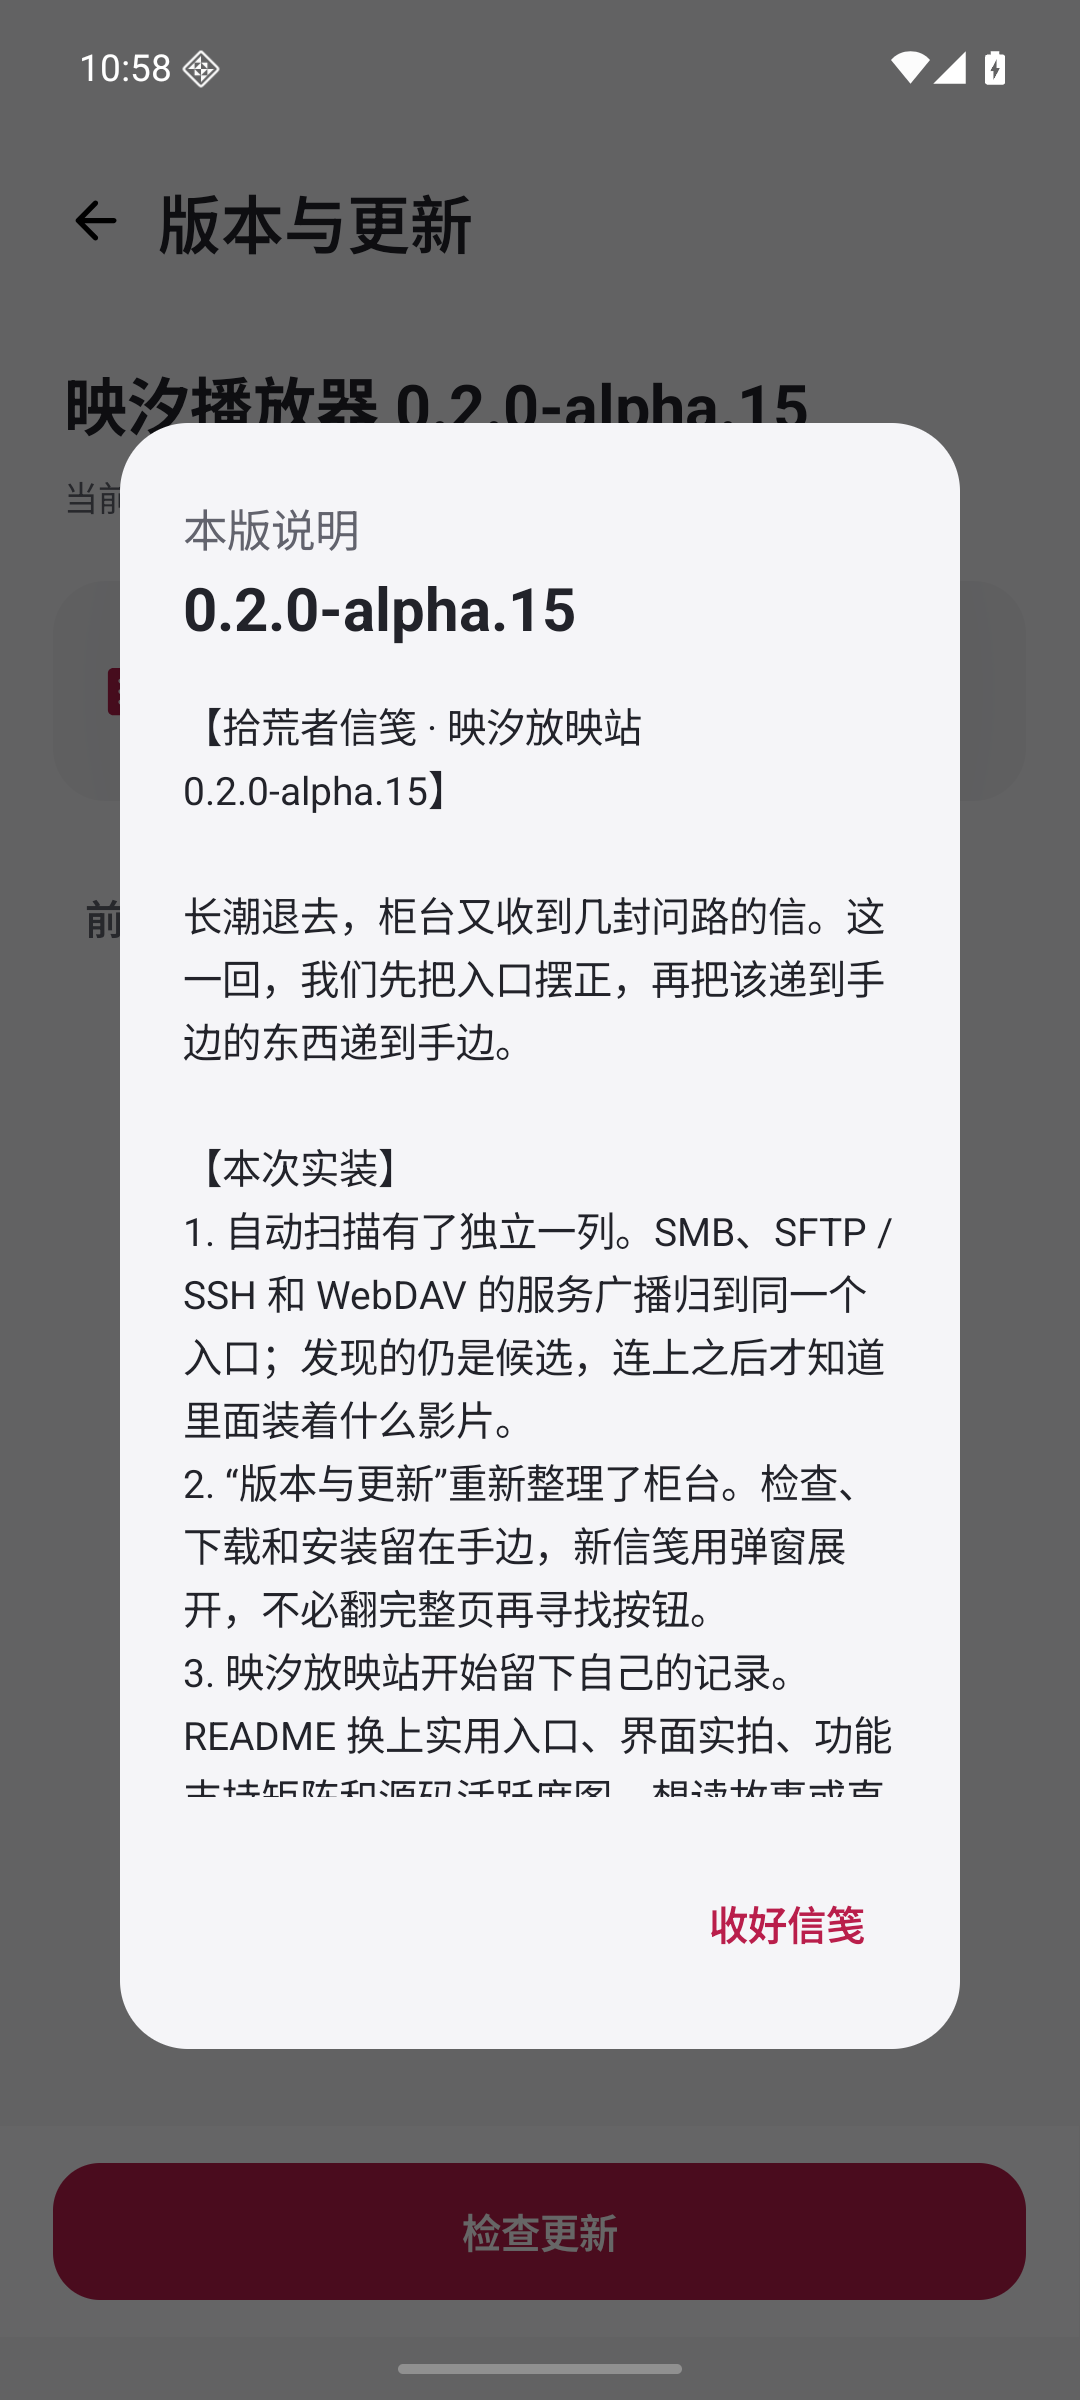
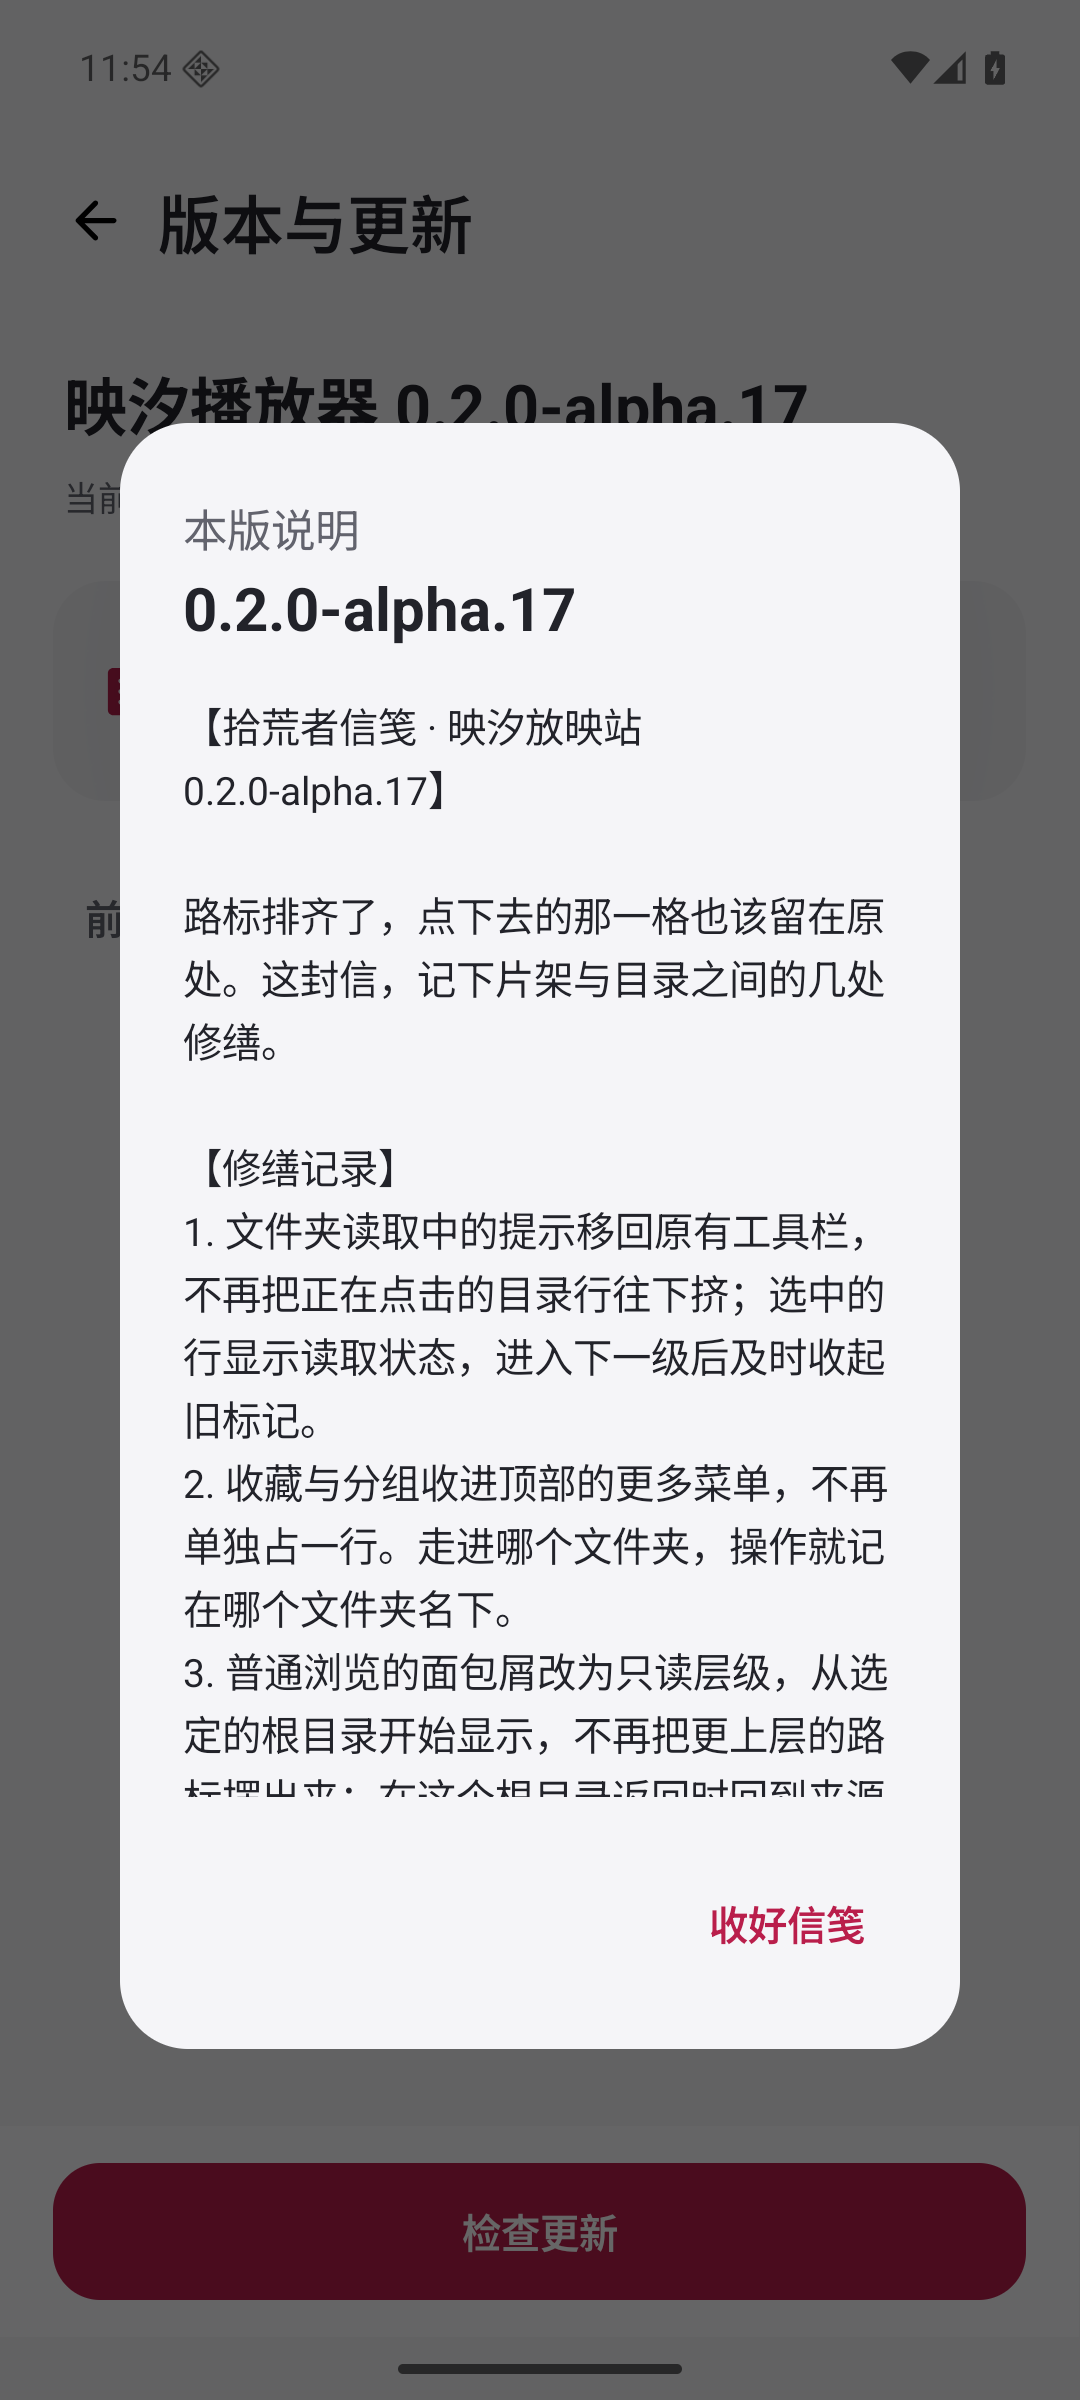
Release alpha.17 with stable directory controls and artwork recovery

diff --git a/app/src/androidTest/java/io/localplayer/app/DirectoryPosterRegressionTest.kt b/app/src/androidTest/java/io/localplayer/app/DirectoryPosterRegressionTest.kt
@@ -33,6 +33,11 @@ class DirectoryPosterRegressionTest {
         MediaPosters.connector=oldConnector;MediaPosters.onlineLookup=oldLookup
         EnrichmentPreferences(app).posters=posters
     }
+    private fun capture(name:String){
+        ui.waitForIdle();android.os.SystemClock.sleep(700)
+        val bitmap=androidx.test.platform.app.InstrumentationRegistry.getInstrumentation().uiAutomation.takeScreenshot()
+        try{java.io.File(app.getExternalFilesDir(null),"browser17-$name.png").outputStream().use{bitmap.compress(Bitmap.CompressFormat.PNG,100,it)}}finally{bitmap.recycle()}
+    }
     private fun browser(initial:String="",blockChild:Boolean=false):Source {
         val source=Source(id="directory-"+UUID.randomUUID(),label="测试片库",protocol=Protocol.WEBDAV,host="directory.invalid",initialPath=initial)
         SourceStore(app).save(source,"",true);saved+=source
@@ -46,16 +51,16 @@ class DirectoryPosterRegressionTest {
                 override fun close(){}
             }
         }
-        ui.runOnUiThread{vm=LibraryViewModel(app,connector);owner.put("browser",vm);vm.open(source)
-            ui.activity.setContent{PlayerTheme{LibraryScreen(vm,{},{})}}}
-        ui.waitUntil(5000){vm.source!=null&&!vm.busy};ui.waitForIdle();return source
+        ui.runOnUiThread{vm=LibraryViewModel(app,connector);owner.put("browser",vm)
+            val files=LocalFilesViewModel(app);owner.put("files",files);ui.activity.setContent{PlayerTheme{AppShell(vm,files,{},{},{})}}}
+        ui.onNodeWithText("来源").performClick();ui.runOnIdle{vm.open(source)};ui.waitUntil(5000){vm.source!=null&&!vm.busy};ui.waitForIdle();return source
     }
     @Test fun folderLoadingKeepsPressedRowAtItsOriginalPosition(){
         browser(blockChild=true)
         val row=ui.onNodeWithText("子文件夹");val before=row.fetchSemanticsNode().boundsInRoot
         row.performClick();ui.runOnIdle{assertTrue(vm.busy)}
         row.assertIsSelected()
-        assertEquals("Loading must not move the pressed folder",before,row.fetchSemanticsNode().boundsInRoot)
+        assertEquals("Loading must not move the pressed folder",before,row.fetchSemanticsNode().boundsInRoot);capture("folder-loading")
         gate.countDown();ui.waitUntil(5000){vm.path=="child"&&!vm.busy}
         ui.onNodeWithText("子文件夹").assertIsNotSelected()
     }
@@ -63,14 +68,14 @@ class DirectoryPosterRegressionTest {
         val source=browser();ui.runOnIdle{vm.browse("child")};ui.waitUntil(5000){vm.path=="child"&&!vm.busy}
         ui.onNodeWithTag("directory-actions").assertDoesNotExist()
         ui.onNodeWithTag("source-menu:"+source.id).performClick()
-        ui.onNodeWithText("收藏").performClick()
+        capture("directory-menu");ui.onNodeWithText("收藏").performClick()
         ui.runOnIdle{assertTrue(vm.organization.bookmarks().any{it.sourceId==source.id&&it.path=="child"&&it.favorite})}
     }
     @Test fun chosenRootBreadcrumbHasNoParentOrClickActions(){
         browser("private/films")
         ui.onAllNodes(hasTestTag("breadcrumb:sources")).assertCountEquals(0)
         ui.onAllNodes(hasText("private")).assertCountEquals(0)
-        ui.onNodeWithTag("breadcrumb:remote:private/films").assertHasNoClickAction()
+        ui.onNodeWithTag("breadcrumb:remote:private/films").assertHasNoClickAction();capture("root")
         ui.onNodeWithTag("breadcrumb:remote:private/films").performTouchInput{click()}
         ui.runOnIdle{assertEquals("private/films",vm.path);vm.up();assertNull(vm.source)}
     }
@@ -84,7 +89,7 @@ class DirectoryPosterRegressionTest {
         MediaPosters.onlineLookup={_,_->attempts.incrementAndGet();null}
         MediaPosters.connector=object:Connector{
             override fun connect(source:Source,credentials:Credentials,cancellation:Cancellation)=object:RemoteSession{
-                override fun list(path:String)=if(available.get())listOf(Entry("poster.jpg","poster.jpg",false,bytes.size.toLong()))else emptyList()
+                override fun list(path:String)=listOf(Entry(media.title,"film.mp4",false,100000)) + if(available.get())listOf(Entry("poster.jpg","poster.jpg",false,bytes.size.toLong()))else emptyList()
                 override fun open(path:String)=object:RemoteFile{
                     override val size=bytes.size.toLong()
                     override fun readAt(position:Long,buffer:ByteArray,offset:Int,length:Int):Int{val n=minOf(length,bytes.size-position.toInt());if(n<=0)return -1;bytes.copyInto(buffer,offset,position.toInt(),position.toInt()+n);return n}
@@ -94,13 +99,14 @@ class DirectoryPosterRegressionTest {
             }
         }
         EnrichmentPreferences(app).posters=true
-        ui.runOnUiThread{vm=LibraryViewModel(app);owner.put("home",vm);ui.activity.setContent{PlayerTheme{HomeScreen(vm,{},{},{})}}}
+        ui.runOnUiThread{vm=LibraryViewModel(app);owner.put("home",vm);val files=LocalFilesViewModel(app);owner.put("files",files);ui.activity.setContent{PlayerTheme{AppShell(vm,files,{},{},{})}}}
         try{
             ui.waitUntil(5000){attempts.get()>0}
             ui.activityRule.scenario.moveToState(Lifecycle.State.CREATED);available.set(true)
             ui.activityRule.scenario.moveToState(Lifecycle.State.RESUMED)
             ui.waitUntil(5000){MediaPosters.credit(app,media)!=null}
-            ui.waitUntil(5000){runCatching{ui.onNodeWithTag("media-thumbnail:"+media.key).assertIsDisplayed()}.isSuccess}
+            ui.onNodeWithTag("home-list").performScrollToNode(hasTestTag("home-film:"+media.key))
+            ui.waitUntil(5000){runCatching{ui.onNodeWithTag("media-thumbnail:"+media.key,useUnmergedTree=true).assertIsDisplayed()}.isSuccess};capture("home-poster")
         }finally{MediaPosters.remove(app,media)}
     }
 }

diff --git a/app/src/main/java/io/localplayer/app/SourceSettings.kt b/app/src/main/java/io/localplayer/app/SourceSettings.kt
@@ -32,7 +32,7 @@ import io.localplayer.core.Source
         }
         DropdownMenu(expanded, onDismissRequest = { expanded = false }, modifier = Modifier.widthIn(min = 240.dp, max = 300.dp),
             shape = RoundedCornerShape(22.dp), containerColor = GroupedSurface, tonalElevation = 0.dp) {
-            Text(source.label, Modifier.padding(horizontal = 18.dp, vertical = 12.dp), fontSize = 14.sp, lineHeight = 21.sp, fontWeight = FontWeight.SemiBold)
+            Text(current.label, Modifier.padding(horizontal = 18.dp, vertical = 12.dp), fontSize = 14.sp, lineHeight = 21.sp, fontWeight = FontWeight.SemiBold)
             HorizontalDivider(color = Hairline)
             DropdownMenuItem(text = { Text("来源设置") }, leadingIcon = { Icon(Icons.Rounded.Tune, null) }, onClick = { expanded = false; vm.showSourceSettings(source) })
             DropdownMenuItem(text = { Text(if (current.favorite) "取消收藏" else "收藏") }, leadingIcon = { Icon(if (current.favorite) Icons.Rounded.Star else Icons.Rounded.StarOutline, null) }, onClick = { expanded = false; vm.toggleFavorite(current) })

diff --git a/app/src/main/java/io/localplayer/app/FileNavigation.kt b/app/src/main/java/io/localplayer/app/FileNavigation.kt
@@ -34,7 +34,7 @@ data class FileCrumb(val label:String,val key:String)
             if(index>0)Icon(Icons.AutoMirrored.Rounded.KeyboardArrowRight,null,Modifier.size(16.dp),tint=Muted)
             val text: @Composable () -> Unit = {
                 Text(crumb.label,maxLines=1,overflow=TextOverflow.Ellipsis,modifier=Modifier.widthIn(max=200.dp),fontSize=14.sp,
-                    fontWeight=if(index==crumbs.lastIndex)FontWeight.SemiBold else FontWeight.Normal,color=if(index==crumbs.lastIndex)Ink else Muted)
+                    fontWeight=if(index==crumbs.lastIndex)FontWeight.SemiBold else FontWeight.Normal,color=if(index==crumbs.lastIndex)Ink else if(onSelect!=null)Berry else Muted)
             }
             if(onSelect!=null)TextButton(onClick={onSelect(index)},enabled=index!=crumbs.lastIndex,
                 modifier=Modifier.heightIn(min=48.dp).testTag("breadcrumb:${crumb.key}")){text()}

diff --git a/releases/v0.2.0-alpha.17.md b/releases/v0.2.0-alpha.17.md
@@ -1,0 +1,31 @@
+# 映汐播放器 0.2.0-alpha.17 / Yingxi 0.2.0-alpha.17
+
+## 中文
+
+【拾荒者信笺 · 映汐放映站 0.2.0-alpha.17】
+
+路标排齐了，点下去的那一格也该留在原处。这封信，记下片架与目录之间的几处修缮。
+
+【修缮记录】
+1. 文件夹读取中的提示移回原有工具栏，不再把正在点击的目录行往下挤；选中的行显示读取状态，进入下一级后及时收起旧标记。
+2. 收藏与分组收进顶部的更多菜单，不再单独占一行。走进哪个文件夹，操作就记在哪个文件夹名下。
+3. 普通浏览的面包屑改为只读层级，从选定的根目录开始显示，不再把更上层的路标摆出来；在这个根目录返回时回到来源列表。重新选择默认目录时仍可浏览上层。
+4. 回到首页时重新尝试补齐缺失海报，首次获取失败后不必守着旧结果等待。已有封面继续留在片架上，过期请求不会把旧失败重新写回来。
+
+【放映站手记】
+柜台少摆了两块牌子，走廊反倒宽敞了些。值夜人把空相框又擦了一遍，等下一张海报归位。
+
+## English
+
+[Scavenger's letter · Yingxi Projection Station 0.2.0-alpha.17]
+
+Once the signposts are aligned, the folder under your finger should stay in place. This letter records a few repairs between the directory and the film shelf.
+
+[Repairs]
+1. Keep folder-loading feedback in the existing toolbar so the pressed row stays in place. Show its pending state, then clear the old selection after entering the next directory.
+2. Move favorites and grouping into the top overflow menu. They apply to the folder currently being browsed, without taking a separate row.
+3. Make ordinary browsing breadcrumbs read-only and begin at the selected root. Back from that root returns to Sources; choosing a different default folder still allows browsing higher levels.
+4. Retry missing posters when returning home. A temporary miss no longer leaves the shelf waiting on an old result; existing artwork stays visible and stale requests cannot restore obsolete failures.
+
+[Station journal]
+With two signs moved off the counter, the corridor feels wider. The night keeper has wiped the empty frame once more, ready for its next poster.

diff --git a/docs/file-navigation.md b/docs/file-navigation.md
@@ -4,6 +4,8 @@
 
 点击面包屑可跳到任一祖先目录，当前目录不可重复点击；长路径横向滚动。返回按钮和系统返回均逐层向上，文件夹根层回到授权列表，列表再返回原页面。移除文件夹只撤销应用授权，不删除磁盘文件。未完成的旧读取不得在返回或移除后重新写回界面。
 
-局域网目录采用同样的层级行为：“来源 › 共享/根目录 › 子目录”。根层的“返回来源”退出当前来源；点击“来源”面包屑也可退出。浏览或跳转时仍按原协议、账户、共享目录和 SFTP 主机身份读取。
+来源目录的面包屑只显示选定根目录及其内部层级，作为位置提示，不提供点击跳转；更上层路径不显示。返回按钮和系统返回逐层向上，在选定根目录返回来源列表。重新选择默认目录时，可以继续浏览上层并选定新的起点。读取始终使用原协议、账户、共享目录和 SFTP 主机身份。
+
+收藏和分组位于目录顶部的更多菜单，菜单标题与操作目标是当前文件夹。目录读取中的反馈显示在现有的项目数/刷新栏和被点击行内，不插入额外状态行；进入子目录后清除上一级选中标记。
 
 单文件系统选择器仍可使用。它属于 Android 系统界面，应用不替换其按钮。SAF 只授权用户选定的目录；系统可能限制存储根目录、Download 根层和应用私有目录，详见 [Android 文档授权说明](https://developer.android.com/training/data-storage/shared/documents-files)。

diff --git a/docs/media-enrichment.md b/docs/media-enrichment.md
@@ -38,3 +38,5 @@
 海报缓存记录匹配规则版本、片名和获取时间。旧规则结果、片名改变、元数据缺失或超过 7 天的结果会重新查询。当前规则不确定时不继续保留旧海报；仍可使用视频预览帧。设置中的海报缓存清理继续可用。
 
 “小丑2”的回归夹具来自 [Wikipedia 官方 API](https://zh.wikipedia.org/w/api.php?action=query&format=json&redirects=1&converttitles=1&titles=%E5%B0%8F%E4%B8%912&prop=pageimages%7Cpageprops%7Ccategories&pilicense=any&pithumbsize=640&cllimit=50)，采集于 2026-10-20；它验证该时点的公开资料响应，不表示已读取用户媒体目录或核对用户此前的错误图片。
+
+返回首页或将应用切回前台时，会重试缺失的海报，已有且有效的海报继续使用缓存。旧请求在取消或刷新后不能重新写入失败结果；暂时不可读的来源可在恢复连接后再次尝试，标题与同目录海报的匹配规则仍保持一致。

diff --git a/README.md b/README.md
@@ -9,8 +9,8 @@
 <p align="center"><strong>一款简洁的 Android 本地与局域网视频播放器。</strong><br>打开文件、连上自己的媒体库，然后安心看完一部片子。</p>
 
 <p align="center">
-  <a href="https://github.com/RoyalLiang/Yingxi-Studio/releases/download/v0.2.0-alpha.15/yingxi-0.2.0-alpha.15-17.apk">下载 Android 安装包</a> ·
-  <a href="https://github.com/RoyalLiang/Yingxi-Studio/releases/tag/v0.2.0-alpha.15">阅读版本信笺</a> ·
+  <a href="https://github.com/RoyalLiang/Yingxi-Studio/releases/download/v0.2.0-alpha.17/yingxi-0.2.0-alpha.17-19.apk">下载 Android 安装包</a> ·
+  <a href="https://github.com/RoyalLiang/Yingxi-Studio/releases/tag/v0.2.0-alpha.17">阅读版本信笺</a> ·
   <a href="docs/player-controls.md">播放与操作</a> ·
   <a href="https://github.com/RoyalLiang/Yingxi-Studio/issues">反馈问题</a>
 </p>
